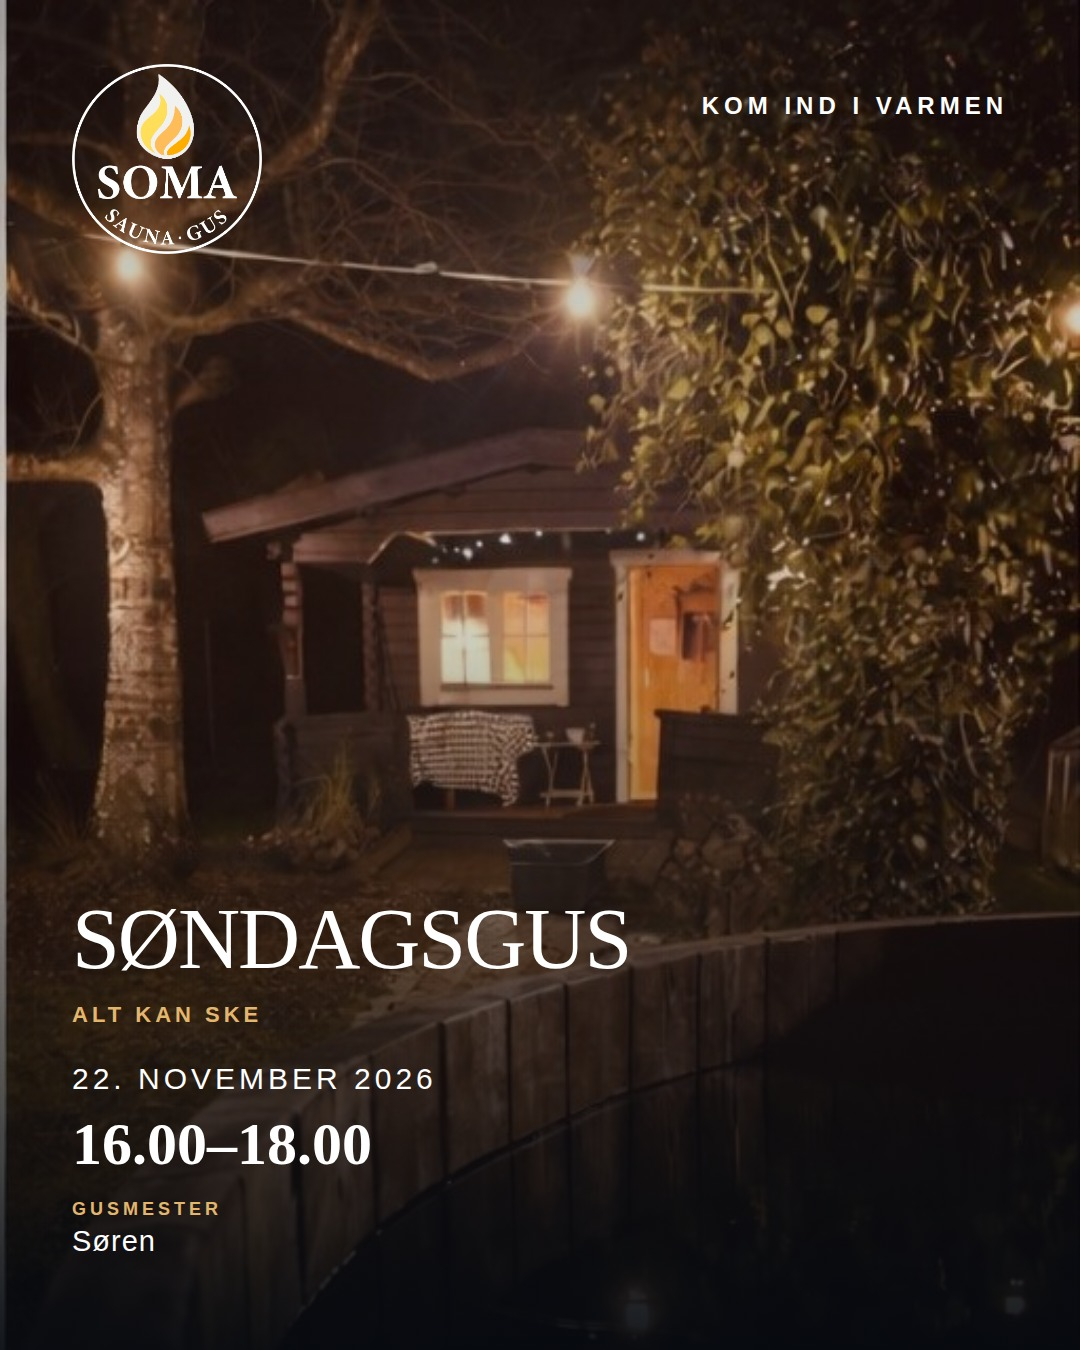
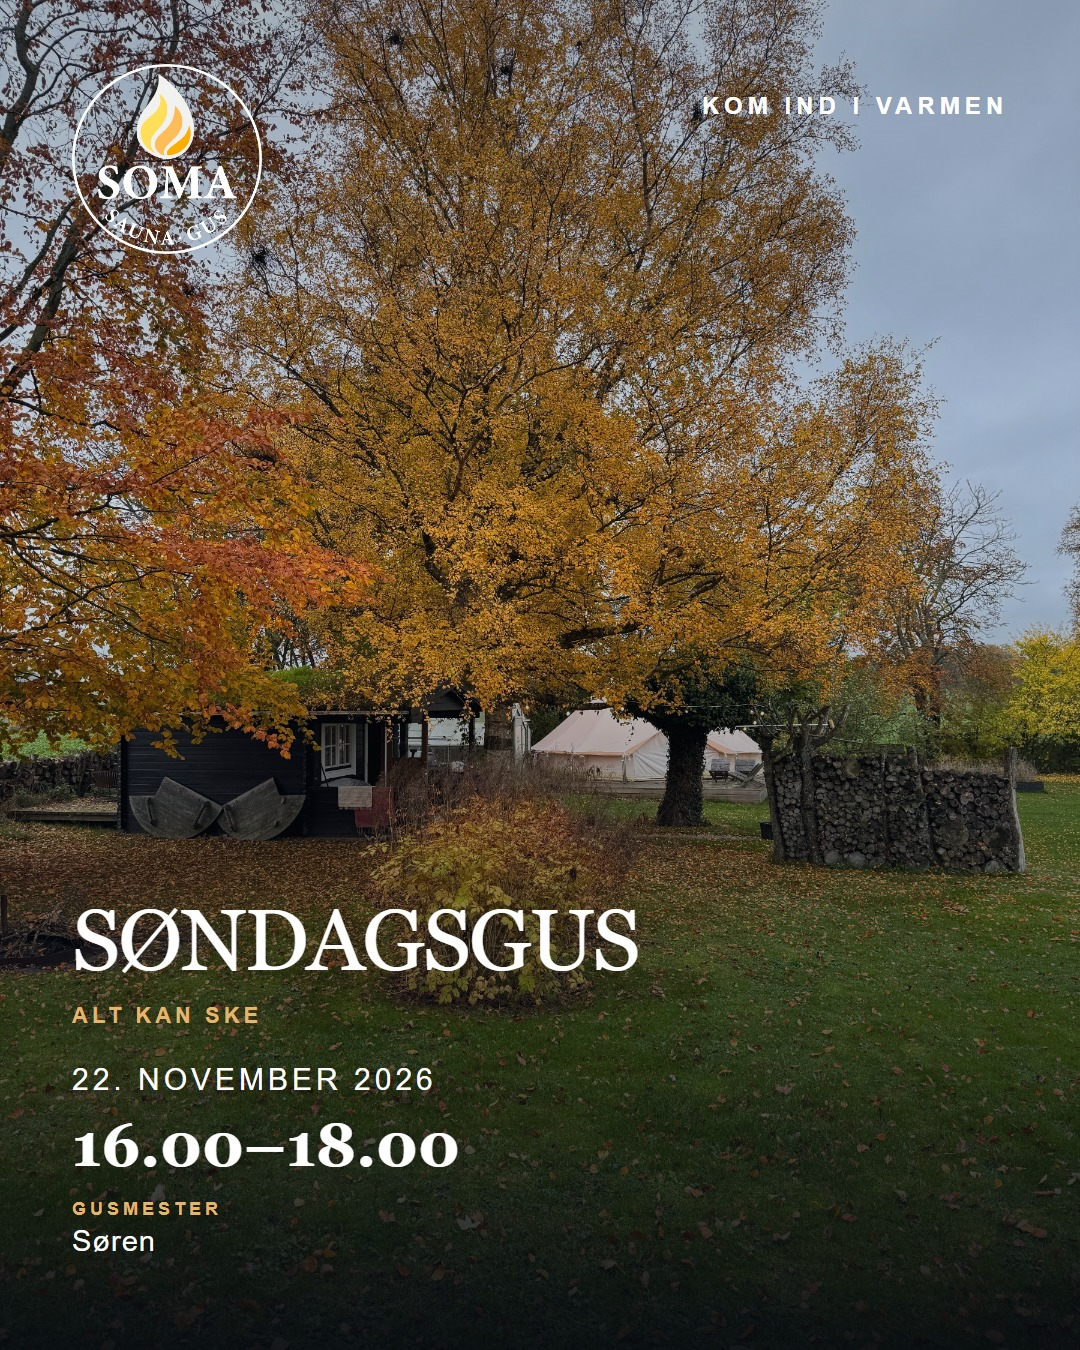
change-image: 2026-11-22_16-00_saunagus_event-day_r1 til soma-img-7321 via lokal godkendelsesside

diff --git a/outputs/content-planner/approval/drafts-data.js b/outputs/content-planner/approval/drafts-data.js
@@ -1147,7 +1147,7 @@ window.__SOMA_DRAFTS__ = window.__SOMA_DRAFTS__ || [
       "instagram": "I dag: Lad søndagen lande blødt i varmen.\n\n22. november 2026 · 16.00–18.00\n\n12 ledige pladser.\n\nBook din plads: https://somasaunagus.dk/kalender/",
       "facebookPage": "Dato og tid: 22. november 2026 · 16.00–18.00\n\n12 ledige pladser.\n\nBook din plads: https://somasaunagus.dk/kalender/\n\nI dag kan du træde ind i varmen til et saunagus.\n\nLad søndagen lande blødt i varmen.\n\nFire sanselige runder med musik, dufte og plads til at give slip.\n\nEn rolig stund, før en ny uge begynder."
     },
[2 lines of base64/hex data omitted]
     "factsUsed": [
       "event.date",
       "event.start",
@@ -1155,18 +1155,25 @@ window.__SOMA_DRAFTS__ = window.__SOMA_DRAFTS__ || [
       "event.name",
       "profile:soren"
     ],
-    "assetId": "soma-winter-night",
+    "assetId": "soma-img-7321",
     "render": {
       "path": "renders/2026-11-22_16-00_saunagus_event-day-d2f2ba619d.jpg",
       "width": 1080,
       "height": 1350,
[2 lines of base64/hex data omitted]
     },
     "renderPath": "renders/2026-11-22_16-00_saunagus_event-day-d2f2ba619d.jpg",
     "manualInstructor": null,
-    "manualAssetId": null,
-    "history": [],
[1 lines of base64/hex data omitted]
+    "manualAssetId": "soma-img-7321",
+    "history": [
+      {
+        "at": "2026-11-08T08:57:15.825Z",
+        "type": "change_image",
+        "from": "draft",
+        "to": "draft"
+      }
+    ],
[1 lines of base64/hex data omitted]
     "approvedAt": null,
     "approvedBy": null,
     "approvedRevision": null,
